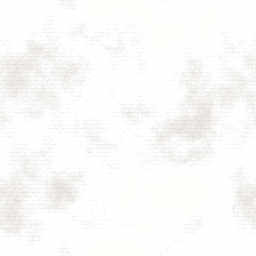
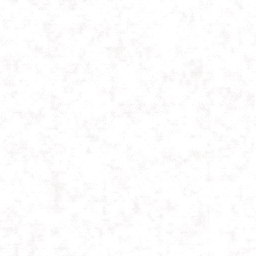
Measure the parchment without the watermark, and give the sidebar its own sheet
The texture was too much, and the reason is that the first sampling grid ran
straight across the emblem watermarked into the middle of the reference. A
watermark is a very large, very soft change in level -- precisely the signal
"how much does this vary over 40px" is looking for -- so it was counted as
paper mottling and the result came out about twice as blotchy as paper is.

Measured again, tile by tile, rejecting any tile holding text and any tile
whose mean sits away from the median (which is what a watermark does to a tile
and what plain paper never does):

                first pass    clean paper
     1px            5.0           2.9
     6px            8.3           4.7
    40px           10.9           4.9

The shape is the finding, not the amplitude. Real paper mottles at a middling
scale and then *plateaus* -- 6px and 40px are within a fifth of a step -- where
the old profile kept climbing. Hitting that meant putting nearly all the energy
at four and eight pixels: big octaves cannot help, because anything finer than
40px is already decorrelated at that distance, so a 64px octave raises the 40px
figure and never the ratio. Now 3.2 / 4.6 / 5.1, and the check asserts both
halves of the shape -- broad above fine, and broad not running away from mid.

The colour survived the correction: clean paper measures #d7b495, r-b 66,
against the #d9b897 already in the palette.

The heavier texture was not wasted. The sidebar now carries it: it is the one
[…]

diff --git a/apps/web/src/app/globals.css b/apps/web/src/app/globals.css
@@ -289,6 +289,25 @@
 }
 
 /*
+ * The sidebar is a different, coarser sheet.
+ *
+ * A background on the element itself rather than another fixed overlay: it is
+ * one column, it does not move, and the global grain lies over the top of this
+ * so the two accumulate exactly where they should. Painted on the element also
+ * means it scrolls with the column, which is right — this is the material the
+ * navigation is printed on, not a filter over the window.
+ *
+ * The two sheets are drawn from separate lattices rather than being one sheet
+ * at two volumes, so the seam down the edge of the sidebar reads as two pieces
+ * of paper meeting rather than as a brightness step in one.
+ */
+:root[data-theme='paper'] [data-pane='nav'] {
+  background-image: url('/paper-grain-strong.png');
+  background-repeat: repeat;
+  background-size: 256px 256px;
+}
+
+/*
  * The grain stops at the preview pane.
  *
  * That pane is a window onto a file — a PDF, a photograph, a rendered page —

diff --git a/apps/web/src/components/sidebar.tsx b/apps/web/src/components/sidebar.tsx
@@ -199,6 +199,15 @@ export function SidebarNav({
          drawer's own width on a phone. The drawer decides how wide it is;
          this decides what is in it. */
       className="flex h-full w-full flex-col border-r border-grey-200 bg-grey-100 md:w-56"
+      /*
+       * Marks this as navigation rather than content, which paper mode reads to
+       * give it a coarser sheet than the panes beside it. It is the one column
+       * that holds nothing you read at length, so a heavier surface there
+       * competes with nothing — and the difference between the two materials is
+       * what stops the whole window looking like one flat sheet with lines
+       * ruled on it.
+       */
+      data-pane="nav"
     >
       <div className="border-b border-grey-200 px-4 py-3">
         <span className="text-[13px] font-semibold tracking-tight text-grey-800">

diff --git a/CLAUDE.md b/CLAUDE.md
@@ -43,14 +43,34 @@ Turbopack is the default; `middleware` is now `proxy`.
   `scripts/make-paper-grain.mjs` draws the tile instead, deterministically, so
   re-running it produces an empty diff. A static file rather than a data URI: it
   must not sit in the stylesheet of everyone who has never chosen this theme.
-  **Its *shape* was measured too, and that is the part that is easy to get
-  wrong.** Paper varies more over forty pixels than over one (10.9 against 5.0
-  in the reference): the soft mottling is what an eye recognises as paper, where
-  per-pixel noise — which is what a first attempt produces — puts all its energy
-  at 1px and reads as a dusty screen. Five octaves of tileable value noise plus
-  a grain term, swept against `scripts/check-paper-grain.mjs`, which asserts all
-  three scales and that broad still exceeds fine. Run it after touching any
-  constant in the generator.
+  **Its *shape* was measured too, and that took two attempts.** Paper varies
+  more over forty pixels than over one — per-pixel noise, which is what a first
+  attempt produces, puts all its energy at 1px and reads as a dusty screen — but
+  it then **plateaus**: the clean reference measures 2.9 / 4.7 / 4.9 at 1, 6 and
+  40 pixels, so the mottling is a modest thing at a middling scale and not a ramp
+  that keeps growing.
+  The first measurement said 5.0 / 8.3 / 10.9, and was wrong because the sampling
+  grid ran across the emblem *watermarked* into the middle of the scroll. A
+  watermark is a very large, very soft change in level, which is precisely the
+  signal "how much does this vary over 40px" is looking for — so it was counted
+  as paper, and the texture came out about twice as blotchy as paper is. Measure
+  tile by tile and reject any tile whose mean sits away from the median: that is
+  what a watermark does to a tile and what plain paper never does.
+  Hitting the plateau meant putting nearly all the energy at four and eight
+  pixels. Big octaves cannot help — anything finer than 40px is already
+  decorrelated at that distance, so a 64px octave only raises the 40px figure and
+  never the ratio. `scripts/check-paper-grain.mjs` asserts all three scales *and*
+  both halves of the shape: broad above fine, and broad not running away from
+  mid. Run it after touching any constant in the generator.
+  **Two sheets, from one generator.** The panes get the measured article; the
+  sidebar gets a coarser one, because it is the only column holding nothing you
+  read at length, so a heavier surface there competes with nothing — and the
+  difference between two materials is what stops the window looking like one flat
+  sheet with lines ruled on it. Painted on the element (`[data-pane='nav']`)
+  rather than as a second overlay: one column, it does not move, and the global
+  grain lies over the top so the two accumulate where they should. Separate
+  lattices, so the seam reads as two pieces of paper meeting rather than as a
+  brightness step in one.
   One fixed overlay rather than a background on each surface, because that is
   what keeps the grain falling across panes, hairlines and headings alike
   without a single component knowing — **and it stops at the preview pane**,

diff --git a/MANUAL.md b/MANUAL.md
@@ -988,9 +988,15 @@ The grain and the faint fall-off at the corners are the smaller half of it, and
 they are there because a flat tan rectangle is a colour rather than a sheet. The
 colour and the texture are both taken from the Age of Empires II campaign scroll
 — measured off it rather than guessed, including the way real paper mottles in
-soft patches rather than fine dust. Under all of it the app is unchanged: the
-same ramp, walked the same direction as light mode, so every hairline and
-heading means exactly what it meant before.
+soft patches rather than fine dust, and then settles rather than going on
+blotching. Under all of it the app is unchanged: the same ramp, walked the same
+direction as light mode, so every hairline and heading means exactly what it
+meant before.
+
+**The sidebar is a coarser sheet than the panes.** It is the one column holding
+nothing you read at length, so a heavier surface there is in nobody's way — and
+two materials meeting is what stops the window reading as one flat sheet with
+lines ruled on it.
 
 **The grain stops at the preview pane.** That pane is a window onto a file, and
 ageing a PDF or a photograph would be the app colouring your document rather
